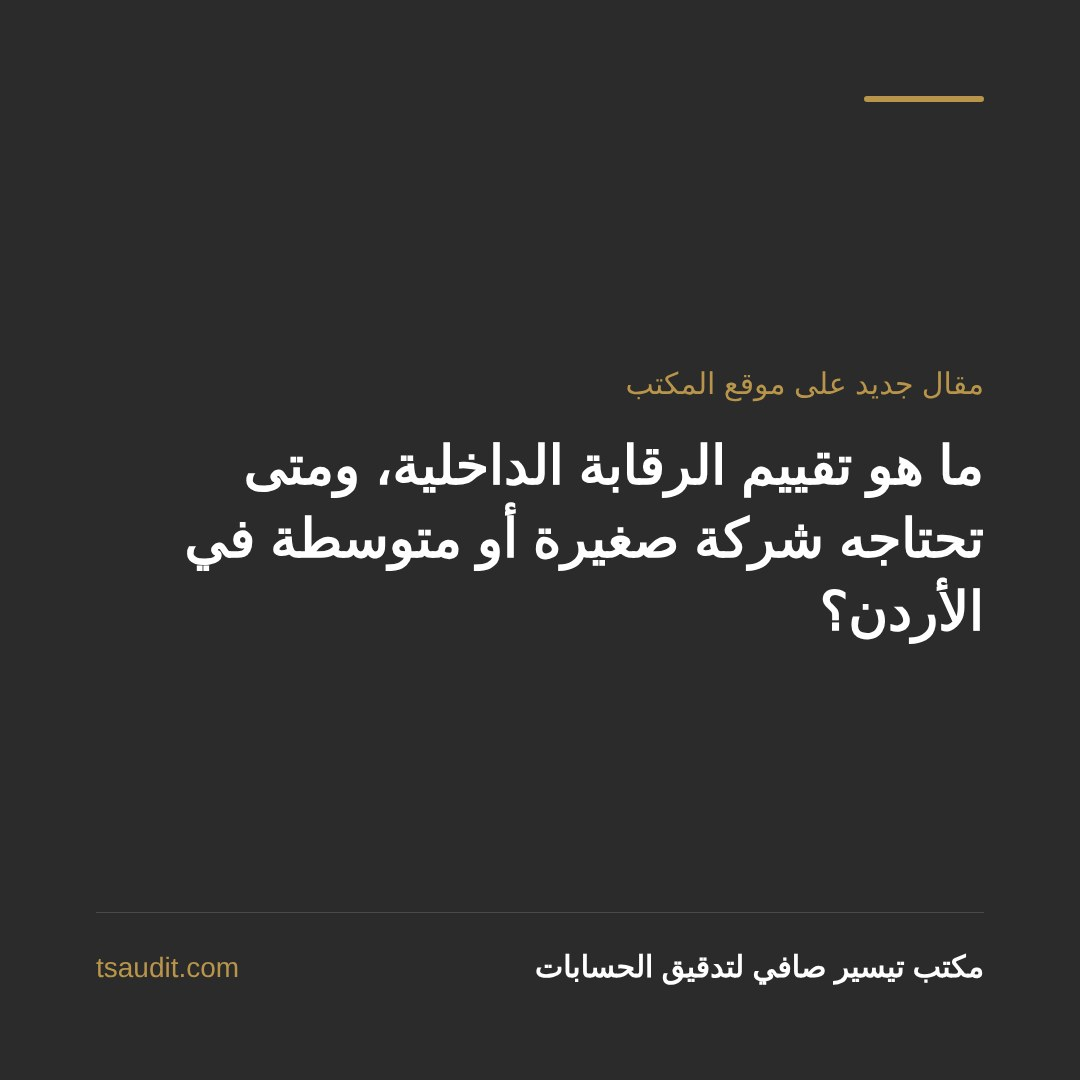
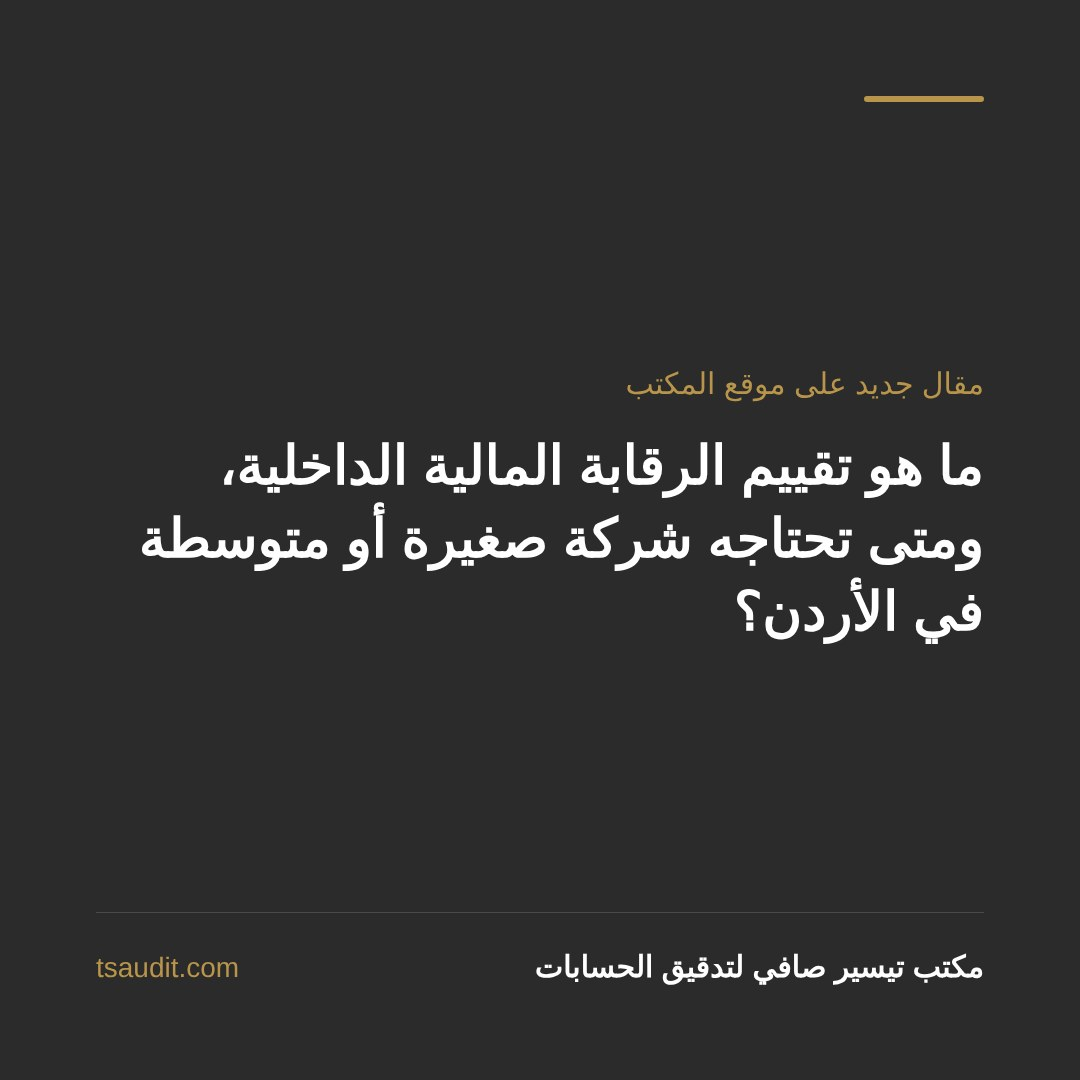
Rewrite internal control article per owner's professional review
- العنوان والنطاق: الرقابة المالية الداخلية تحديداً، مع فقرة تميّزها عن رقابة العمليات والامتثال.
- فقرة الفرق عن التدقيق وجواب استقلالية المدقق وجواب الإلزام بصياغة صاحب المستودع.
- تخفيف العبارات القطعية، وإضافة حدود الفحص وحل لمثال المحاسب الواحد.
- سطر «آخر مراجعة» بالتاريخ الذي كتبه صاحب المستودع.
- صورة معاينة للمقال، وتحديث بطاقة الرئيسية وصورة المنشور ونصوص المنصات بالعنوان الجديد.

Claude-Session: https://claude.ai/code/session_011tFFpsMmAJGabmkJTiJkkx

Changed region(s): [[0.1222, 0.3972, 0.9167, 0.6111]]

diff --git a/articles/internal-control-assessment-jordan.html b/articles/internal-control-assessment-jordan.html
@@ -3,8 +3,8 @@
 <head>
 <meta charset="utf-8">
 <meta name="viewport" content="width=device-width, initial-scale=1">
-<title>ما هو تقييم الرقابة الداخلية ومتى تحتاجه شركتك؟ | مكتب تيسير صافي لتدقيق الحسابات</title>
-<meta name="description" content="تقييم الرقابة الداخلية فحص مستقل لإجراءات العمل اليومية في منشأتك: من يقبض ومن يصرف ومن يراقب. متى تحتاجه الشركة الصغيرة أو المتوسطة في الأردن، وما مخرجاته؟">
+<title>ما هو تقييم الرقابة المالية الداخلية ومتى تحتاجه شركتك؟ | مكتب تيسير صافي لتدقيق الحسابات</title>
+<meta name="description" content="تقييم الرقابة المالية الداخلية فحص لإجراءات القبض والصرف والتسجيل والمراجعة ضمن نطاق متفق عليه. متى تحتاجه الشركة الصغيرة أو المتوسطة، وماذا تستلم؟">
 <meta name="referrer" content="strict-origin-when-cross-origin">
 <meta name="theme-color" content="#242424">
 
@@ -12,12 +12,12 @@
 <meta property="og:site_name" content="مكتب تيسير صافي لتدقيق الحسابات">
 <meta property="og:locale" content="ar_JO">
 <meta property="og:url" content="https://tsaudit.com/articles/internal-control-assessment-jordan.html">
-<meta property="og:title" content="ما هو تقييم الرقابة الداخلية، ومتى تحتاجه شركة صغيرة أو متوسطة في الأردن؟">
-<meta property="og:description" content="تقييم الرقابة الداخلية فحص مستقل لإجراءات العمل اليومية في منشأتك: من يقبض ومن يصرف ومن يراقب. متى تحتاجه الشركة الصغيرة أو المتوسطة في الأردن، وما مخرجاته؟">
-<meta property="og:image" content="https://tsaudit.com/assets/og-image.jpg">
+<meta property="og:title" content="ما هو تقييم الرقابة المالية الداخلية، ومتى تحتاجه شركة صغيرة أو متوسطة في الأردن؟">
+<meta property="og:description" content="تقييم الرقابة المالية الداخلية فحص لإجراءات القبض والصرف والتسجيل والمراجعة ضمن نطاق متفق عليه. متى تحتاجه الشركة الصغيرة أو المتوسطة، وماذا تستلم؟">
+<meta property="og:image" content="https://tsaudit.com/assets/og/internal-control-assessment-jordan.jpg">
 <meta property="og:image:width" content="1200">
 <meta property="og:image:height" content="630">
-<meta property="og:image:alt" content="شعار مكتب تيسير صافي لتدقيق الحسابات">
+<meta property="og:image:alt" content="ما هو تقييم الرقابة المالية الداخلية، ومتى تحتاجه شركة صغيرة أو متوسطة في الأردن؟">
 <meta name="twitter:card" content="summary_large_image">
 <link rel="canonical" href="https://tsaudit.com/articles/internal-control-assessment-jordan.html">
 <link rel="icon" type="image/png" sizes="32x32" href="../assets/favicon-32.png">
@@ -33,10 +33,10 @@
 {
   "@context": "https://schema.org",
   "@type": "Article",
-  "headline": "ما هو تقييم الرقابة الداخلية، ومتى تحتاجه شركة صغيرة أو متوسطة في الأردن؟",
-  "datePublished": "2026-11-05T22:40:00+03:00",
-  "dateModified": "2026-11-10T10:30:00+03:00",
-  "image": "https://tsaudit.com/assets/og-image.jpg",
+  "headline": "ما هو تقييم الرقابة المالية الداخلية، ومتى تحتاجه شركة صغيرة أو متوسطة في الأردن؟",
+  "datePublished": "2026-11-11T12:00:00+03:00",
+  "dateModified": "2026-11-11T12:00:00+03:00",
+  "image": "https://tsaudit.com/assets/og/internal-control-assessment-jordan.jpg",
   "author": {
     "@type": "Person",
     "@id": "https://tsaudit.com/#tayseer-safi",
@@ -82,52 +82,42 @@
 <main id="main" tabindex="-1">
   <article class="section article">
     <div class="wrap">
-      <h1>ما هو تقييم الرقابة الداخلية، ومتى تحتاجه شركة صغيرة أو متوسطة في الأردن؟</h1>
+      <h1>ما هو تقييم الرقابة المالية الداخلية، ومتى تحتاجه شركة صغيرة أو متوسطة في الأردن؟</h1>
       <p class="note article-author">إعداد تيسير صافي، محاسب قانوني أردني مرخّص.</p>
-      <p class="note article-meta">آخر مراجعة: تشرين الثاني 2026</p>
-      <p>تقييم الرقابة الداخلية فحص مستقل لإجراءات العمل اليومية في منشأتك: من يقبض النقد ومن يصرفه، من يشتري ومن يستلم، من يسجّل في الدفاتر ومن يراجع. الهدف منه سؤال واحد: لو وقع خطأ أو تلاعب في أي من هذه الدورات، هل تكتشفه المنشأة في وقته، أم يبقى مستوراً حتى يكبر؟ ومخرجه تقرير مكتوب يحدد الثغرات ويقترح لكل منها إجراءً عملياً يناسب حجم المنشأة.</p>
+      <p class="note article-meta">آخر مراجعة: 11 تشرين الثاني 2026</p>
+      <p>خذ مثالاً بسيطاً: محاسب واحد في الشركة يستلم النقد من العملاء، ويودعه في البنك، ويسجّل القيود، ويطابق كشف البنك آخر الشهر. هذا الموظف قد يكون أميناً تماماً، لكن لو أخطأ أو تلاعب فقد يمر الخطأ أو التلاعب دون اكتشاف في الوقت المناسب، لأن كل خطوة تمر من تحت يده وحده.</p>
+      <p>وإذا لم يسمح حجم الشركة بفصل جميع المهام، فقد يكون الإجراء المناسب مراجعة صاحب العمل للمطابقة البنكية ومستنداتها، بالرجوع إلى كشف يحصل عليه مباشرة من البنك، وتوثيق مراجعته.</p>
+      <p>وقبل أن نكمل، كلمة الرقابة الداخلية أوسع مما قد يتبادر إلى الذهن. فهي تشمل الرقابة على سير العمليات وكفاءتها، والرقابة على الالتزام بالقوانين والأنظمة، والرقابة على الجانب المالي. وهذا المقال يتحدث عن الجانب المالي وحده، أي الإجراءات التي تحمي أموال المنشأة وتساعد على موثوقية سجلاتها وقوائمها المالية.</p>
+      <p>تقييم الرقابة المالية الداخلية يبحث في منشأتك عن مواضع مثل المحاسب في المثال السابق. نفحص كيف يُقبض المال وكيف يُصرف، ومن يشتري ومن يستلم البضاعة، ومن يسجّل ومن يراجع. ثم نكتب لك أين يمكن أن يقع خطأ مالي دون أن يُكتشف، وما الإجراء العملي المناسب للحد من هذا الخطر.</p>
 
-      <h2>ما المقصود بالرقابة الداخلية أصلاً؟</h2>
-      <p>الرقابة الداخلية ليست قسماً ولا موظفاً، بل مجموعة الإجراءات التي تحمي أموال المنشأة وتضمن دقة أرقامها. أبسط أمثلتها موجود في كل عمل ناجح، وإن لم يسمّه صاحبه رقابة: ألا يكون من يقبض النقد هو نفسه من يسجّل القيود، وأن تُطابَق كشوفات البنك مع الدفاتر دورياً، وأن يُجرد المخزون جرداً مفاجئاً أحياناً، وألا يُصرف مبلغ مهم بتوقيع شخص واحد، وأن توثَّق الموافقات قبل الشراء لا بعده.</p>
-      <p>الإطار المهني الأوسع انتشاراً في وصف الرقابة الداخلية هو إطار لجنة المنظمات الراعية المعروف اختصاراً بإطار</p>
-      <p dir="ltr" lang="en">COSO</p>
-      <p>وهو يصفها بخمسة مكونات: بيئة الرقابة، وتقييم المخاطر، والأنشطة الرقابية، والمعلومات والاتصال، والمتابعة. لكن التطبيق في شركة صغيرة أو متوسطة لا يحتاج هذه اللغة؛ يحتاج فحصاً عملياً لدوراتها الفعلية.</p>
+      <h2>كيف يختلف عن التدقيق؟</h2>
+      <p>عند تدقيق القوائم المالية، يدرس المدقق الرقابة الداخلية ذات الصلة لتقييم مخاطر الأخطاء الجوهرية وتحديد إجراءات التدقيق المناسبة، ويبلّغ أوجه القصور المهمة التي يكتشفها. لكن هذا لا يعني إجراء تقييم شامل لفاعلية الرقابة المالية. أما في الخدمة الموضحة هنا، فالإجراءات والضوابط المالية نفسها هي موضوع العمل، ضمن نطاق متفق عليه، والمخرج تقرير بالملاحظات والتوصيات، وليس رأياً في القوائم المالية.</p>
 
-      <h2>ما الفرق بينه وبين تدقيق القوائم المالية؟</h2>
-      <p>تدقيق القوائم المالية فحص مستقل غايته رأي مهني في عدالة القوائم المالية ككل، ويتعرض فيه المدقق للرقابة الداخلية بالقدر اللازم لفهم المنشأة وتقدير مخاطر الأخطاء الجوهرية، وفق معايير التدقيق الدولية. أما تقييم الرقابة الداخلية فخدمة مستقلة غايتها الإجراءات نفسها: يفحصها بعمق أكبر، ويخرج بتوصيات مكتوبة قابلة للتطبيق، دون إبداء رأي في القوائم المالية.</p>
-      <p>ولهذا يكمل أحدهما الآخر ولا يغني عنه: التدقيق يجيب «هل القوائم المالية عادلة؟»، والتقييم يجيب «هل إجراءاتك تحمي أموالك وتمنع الخطأ قبل وقوعه؟».</p>
+      <h2>متى يكون الوقت مناسباً؟</h2>
+      <p>من الحالات التي قد تستدعي التقييم شركة بدأت صغيرة، يعرف صاحبها كل صغيرة وكبيرة فيها، ثم كبرت. زاد عدد الموظفين أو فُتح فرع جديد، وما زالت المهام المالية توزَّع بالكلام، ولا يوجد إجراء مكتوب يحدد من يقبض ومن يصرف ومن يوافق.</p>
+      <p>وقد يكون المؤشر فروقات تتكرر في الجرد أو في الصندوق ولا يجد لها أحد تفسيراً. أو صاحب عمل مشغول بأكثر من نشاط، يوقّع ما يُعرض عليه لأنه لا يملك وقتاً للتحقق منه. ومن المفيد كذلك إجراء التقييم قبل خطوة كبيرة، كتغيير النظام المحاسبي أو دخول شريك جديد.</p>
 
-      <h2>متى تحتاج شركتك إلى هذا التقييم؟</h2>
-      <p>العلامات الآتية هي الأكثر تكراراً عند المنشآت التي ينفعها التقييم:</p>
-      <p><strong>نمو أسرع من الإجراءات:</strong> بدأت صغيرة بإجراءات شفهية، وكبر الفريق والفروع والعمليات، وبقيت الإجراءات كما كانت.</p>
-      <p><strong>أخطاء أو فروقات متكررة:</strong> فروقات جرد لا تجد تفسيراً، أو فروقات بين الصندوق والدفاتر، أو ذمم لا تُحصّل دون سبب واضح.</p>
-      <p><strong>الاعتماد على شخص واحد:</strong> موظف واحد يقبض ويصرف ويسجّل ويطابق. غياب فصل المهام هو أوسع باب للخطأ والتلاعب معاً، وأكثر ما يتكرر في المنشآت العائلية.</p>
-      <p><strong>صاحب عمل بعيد عن التفاصيل اليومية:</strong> تدير أكثر من نشاط، أو تسافر كثيراً، وتوقّع ما يُعرض عليك دون أن تملك طريقة للتحقق.</p>
-      <p><strong>قبل خطوة كبيرة:</strong> إدخال نظام محاسبي جديد، أو فتح فرع، أو دخول شريك أو ممول يريد الاطمئنان على سلامة الإجراءات قبل أن يضع ماله.</p>
+      <h2>ماذا تستلم في النهاية؟</h2>
+      <p>نتفق مسبقاً على العمليات والفترة التي يغطيها التقييم، وما إذا كان يشمل اختبار استمرار تطبيق الضوابط خلال تلك الفترة. ثم نقابل الموظفين الذين ينفذون العمل فعلاً، ونتتبّع عينة من العمليات من أولها إلى آخرها، فالمكتوب في السياسات لا يكفي. يغطي ذلك عادة التحصيل والصرف والمشتريات والرواتب والمخزون. وتتبّع عينة من العمليات لا يعني فحص جميع المعاملات أو ضمان اكتشاف كل خطأ أو تلاعب.</p>
+      <p>وفي النهاية تستلم تقريراً يرتب الملاحظات من الأخطر إلى الأقل خطراً، ومع كل ملاحظة اقتراح يناسب حجم منشأتك. فما يصلح لشركة فيها عشرون محاسباً لا يصلح لمنشأة فيها محاسب واحد.</p>
+      <p>ونصيحتي ألا تحاول تنفيذ كل شيء دفعة واحدة. ابدأ بما يتعلق بالنقد وبصلاحيات الصرف والتوقيع، واجعل لكل توصية شخصاً مسؤولاً عنها وموعداً لإنجازها، وبعد فترة تأكد أنها نُفذت.</p>
 
-      <h2>ماذا يشمل التقييم عملياً، وما مخرجاته؟</h2>
-      <p>يغطي التقييم عادة الدورات الرئيسية: المقبوضات والتحصيل، والمدفوعات والصرف، والمشتريات والموردين، والرواتب، والمخزون، مع فحص فصل المهام والصلاحيات والتوثيق في كل دورة. ويجري بمقابلات مع من ينفذ العمل فعلاً، وتتبّع عينات من العمليات من بدايتها إلى نهايتها، لا بالاكتفاء بما هو مكتوب في السياسات.</p>
-      <p>المخرج تقرير مكتوب يرتب الثغرات بحسب خطورتها، ويقترح لكل ثغرة إجراءً محدداً يناسب حجم المنشأة وعدد موظفيها، فالحل الذي يصلح لشركة فيها عشرون محاسباً لا يُفرض على منشأة فيها محاسب واحد.</p>
-
-      <h2>ماذا تفعل بعد استلام التقرير؟</h2>
-      <p>الخطوة العملية التالية لصاحب العمل: ابدأ بالتوصيات الأعلى خطراً، وهي غالباً ما يمس النقد والصلاحيات، وكلّف شخصاً محدداً بكل توصية وتاريخاً لتنفيذها، ثم أعد فحص ما نُفذ بعد فترة كافية. التقرير الذي يوضع في الدرج لا يختلف عن عدمه.</p>
-
-      <h2>أسئلة متكررة</h2>
-      <p><strong>هل تقييم الرقابة الداخلية إلزامي قانوناً؟</strong> لا يوجد إلزام عام يفرضه على الشركات الصغيرة والمتوسطة، فهو قرار إداري يتخذه صاحب العمل. بعض القطاعات المنظمة لها متطلبات حوكمة خاصة بها تُراجع كلٌّ على حدة.</p>
-      <p><strong>هل هو للشركات الكبيرة فقط؟</strong> على العكس؛ الشركة الكبيرة غالباً عندها إدارة تدقيق داخلي، أما الصغيرة والمتوسطة فليس عندها من يفحص إجراءاتها أصلاً، وهي الأكثر تضرراً من ثغرة واحدة لأن هامش احتمالها أضيق.</p>
-      <p><strong>هل يستطيع مدقق حساباتك الحالي تقديمه؟</strong> إن كان المكتب نفسه يدقق قوائمك المالية، فتقييم الرقابة الداخلية بصيغة التوصيات لا يتعارض مبدئياً مع عمله، ما دام القرار والتنفيذ بيد إدارتك ولم يتحول المقيّم إلى منفّذ للإجراءات التي سيدقق نتائجها. يُراجع ذلك في كل حالة وفق متطلبات الاستقلالية المهنية.</p>
+      <h2>أسئلة يسألها أصحاب الأعمال</h2>
+      <p><strong>هل التقييم إلزامي؟</strong> لا يكفي وصف الشركة بأنها صغيرة أو متوسطة لتحديد الإلزام. يجب التحقق من شكلها القانوني ونشاطها والجهة الرقابية التي تخضع لها، مع التمييز بين متطلبات وجود رقابة داخلية وبين تكليف جهة خارجية بهذا التقييم.</p>
+      <p><strong>أليس هذا للشركات الكبيرة؟</strong> الشركات الكبيرة غالباً عندها قسم تدقيق داخلي يقوم بهذا العمل. الشركة الصغيرة ليس عندها من يفحص إجراءاتها المالية، وقد يؤثر خطأ مالي واحد بصورة كبيرة في سيولتها واستمرار أعمالها.</p>
+      <p><strong>هل يقدمه مدقق حساباتي الحالي؟</strong> قد يستطيع مدقق حساباتك الحالي تقديم هذه الخدمة، بعد التحقق من توافق نطاقها مع متطلبات الاستقلالية. وتبقى القرارات ومسؤولية تصميم الضوابط وتطبيقها وتشغيلها لدى الإدارة، ولا يجوز للمدقق تولّي مسؤولياتها. وقد تستدعي طبيعة العمل الاستعانة بمقدم خدمة آخر.</p>
 
       <p>لمعرفة ما تشمله هذه الخدمة في مكتبنا وخطوات العمل: <a href="../services/internal-control/">خدمة تقييم الرقابة الداخلية</a>. وإن كان سؤالك عن تدقيق القوائم المالية نفسه: <a href="../services/audit/">خدمة تدقيق الحسابات</a>، ومقال <a href="audit-requirement-jordan.html">متى تحتاج شركتك إلى مدقق حسابات في الأردن؟</a>.</p>
 
       <div class="article-cta">
-        <p>تلاحظ فروقات لا تجد تفسيرها، أو تعتمد منشأتك على شخص واحد في القبض والصرف؟ احجز جلسة أولية مجانية لمناقشة وضع إجراءاتك.</p>
+        <p>تلاحظ فروقات لا تجد تفسيرها، أو تعتمد منشأتك على شخص واحد في القبض والصرف؟ احجز جلسة أولية مجانية لمناقشة وضع إجراءاتك المالية.</p>
         <a class="btn btn-dark" href="https://wa.me/962790123999?text=%D9%85%D8%B1%D8%AD%D8%A8%D8%A7%D9%8B%D8%8C%20%D9%82%D8%B1%D8%A3%D8%AA%20%D9%85%D9%82%D8%A7%D9%84%20%D8%AA%D9%82%D9%8A%D9%8A%D9%85%20%D8%A7%D9%84%D8%B1%D9%82%D8%A7%D8%A8%D8%A9%20%D8%A7%D9%84%D8%AF%D8%A7%D8%AE%D9%84%D9%8A%D8%A9%20%D9%88%D8%A3%D8%B1%D8%BA%D8%A8%20%D8%A8%D8%AD%D8%AC%D8%B2%20%D8%AC%D9%84%D8%B3%D8%A9%20%D8%A3%D9%88%D9%84%D9%8A%D8%A9" target="_blank" rel="noopener">احجز جلسة أولية مجانية</a>
         <p class="btn-hint">الحجز عبر واتساب</p>
       </div>
 
       <h2>المراجع</h2>
       <ol class="refs">
-        <li>إطار الرقابة الداخلية المتكامل الصادر عن لجنة المنظمات الراعية:<br><a href="https://www.coso.org/guidance-on-ic" target="_blank" rel="noopener noreferrer" dir="ltr">https://www.coso.org/guidance-on-ic</a></li>
+        <li>إطار الرقابة الداخلية المتكامل الصادر عن لجنة المنظمات الراعية، ومنه أهداف الرقابة الثلاثة: العمليات والتقارير والامتثال:<br><a href="https://www.coso.org/guidance-on-ic" target="_blank" rel="noopener noreferrer" dir="ltr">https://www.coso.org/guidance-on-ic</a></li>
         <li>معيار التدقيق الدولي 315: تشخيص وتقييم مخاطر الأخطاء الجوهرية، الصادر عن مجلس معايير التدقيق والتأكيد الدولية:<br><a href="https://www.iaasb.org/publications/international-standard-auditing-315-revised-2019-identifying-and-assessing-risks-material" target="_blank" rel="noopener noreferrer" dir="ltr">https://www.iaasb.org/publications/international-standard-auditing-315-revised-2019-identifying-and-assessing-risks-material</a></li>
       </ol>
       <p class="note">المعلومات الواردة في هذا المقال عامة لأغراض التوعية، ولا تُعد رأياً مهنياً أو استشارة لحالة محددة ولا تغني عن دراسة حالتك لدى مختص.</p>
@@ -137,7 +127,15 @@
 
 <footer class="footer" id="footer">
   <div class="wrap">
-    <p class="footer-cma"><a href="../services/internal-control/">خدمة تقييم الرقابة الداخلية</a></p>
+    <h2 class="footer-title">خدمات المكتب</h2>
+    <ul class="useful">
+      <li><a href="../services/audit/">تدقيق الحسابات</a></li>
+      <li><a href="../services/tax/">الاستشارات الضريبية</a></li>
+      <li><a href="../services/accounting/">الخدمات المحاسبية</a></li>
+      <li><a href="../services/cost-accounting/">محاسبة التكاليف</a></li>
+      <li><a href="../services/management-reports/">التقارير الإدارية</a></li>
+      <li><a href="../services/internal-control/">تقييم الرقابة الداخلية</a></li>
+    </ul>
     <p class="footer-cma"><a href="../cma/" dir="ltr" lang="en">CMA</a></p>
     <p class="footer-cma footer-privacy"><a href="../privacy/">سياسة الخصوصية</a></p>
     <p class="footer-contact">هاتف <a href="tel:+962790123999" dir="ltr">+962 79 012 3999</a> · بريد <a href="mailto:safi@tsaudit.com" dir="ltr">safi@tsaudit.com</a> · عمّان، تلاع العلي، دوار الواحة</p>

diff --git a/index.html b/index.html
@@ -299,8 +299,8 @@
       <h2>مقالات</h2>
       <div class="cards">
         <a class="card card-link" href="articles/internal-control-assessment-jordan.html">
-          <h3>ما هو تقييم الرقابة الداخلية، ومتى تحتاجه شركة صغيرة أو متوسطة في الأردن؟</h3>
-          <p>فحص مستقل لإجراءات القبض والصرف والمشتريات والرواتب والمخزون: لو وقع خطأ أو تلاعب، هل تكتشفه في وقته؟</p>
+          <h3>ما هو تقييم الرقابة المالية الداخلية، ومتى تحتاجه شركة صغيرة أو متوسطة في الأردن؟</h3>
+          <p>محاسب واحد يقبض ويودع ويسجّل ويطابق: لو وقع خطأ مالي، هل يُكتشف في وقته؟ وما الفرق بين هذا التقييم والتدقيق؟</p>
         </a>
         <a class="card card-link" href="articles/audit-requirement-jordan.html">
           <h3>متى تحتاج شركتك إلى مدقق حسابات في الأردن؟</h3>
